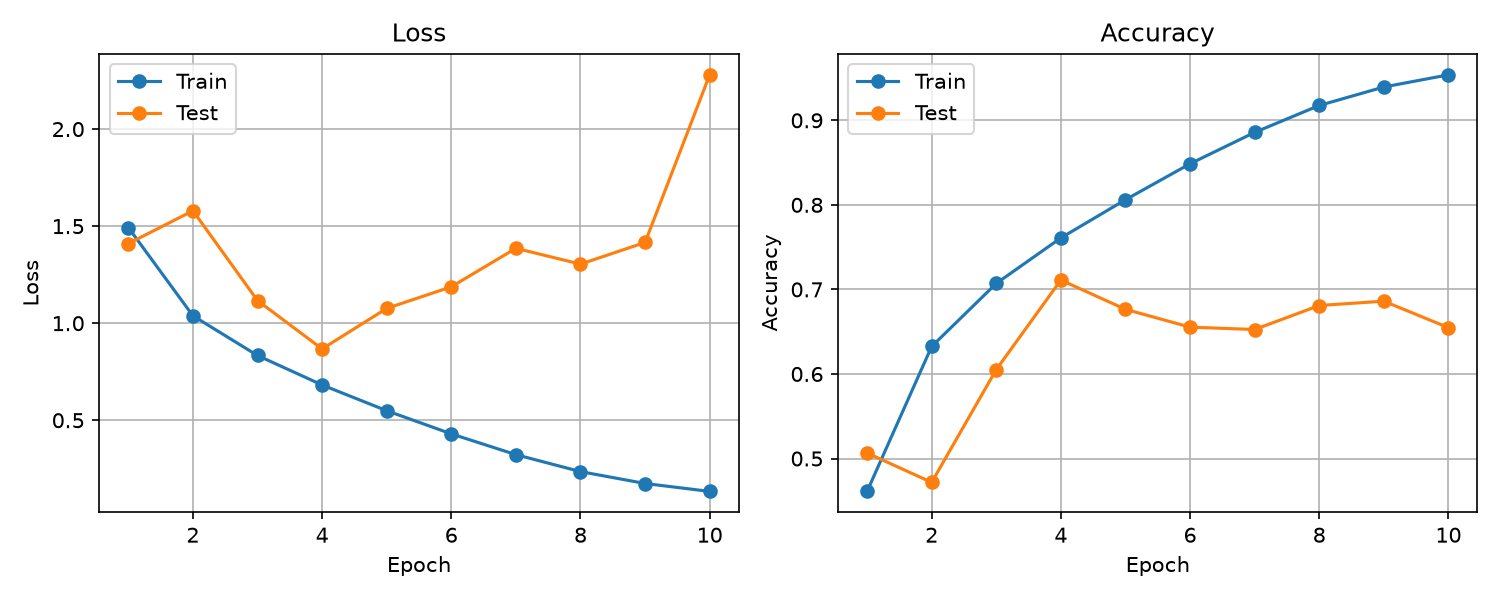
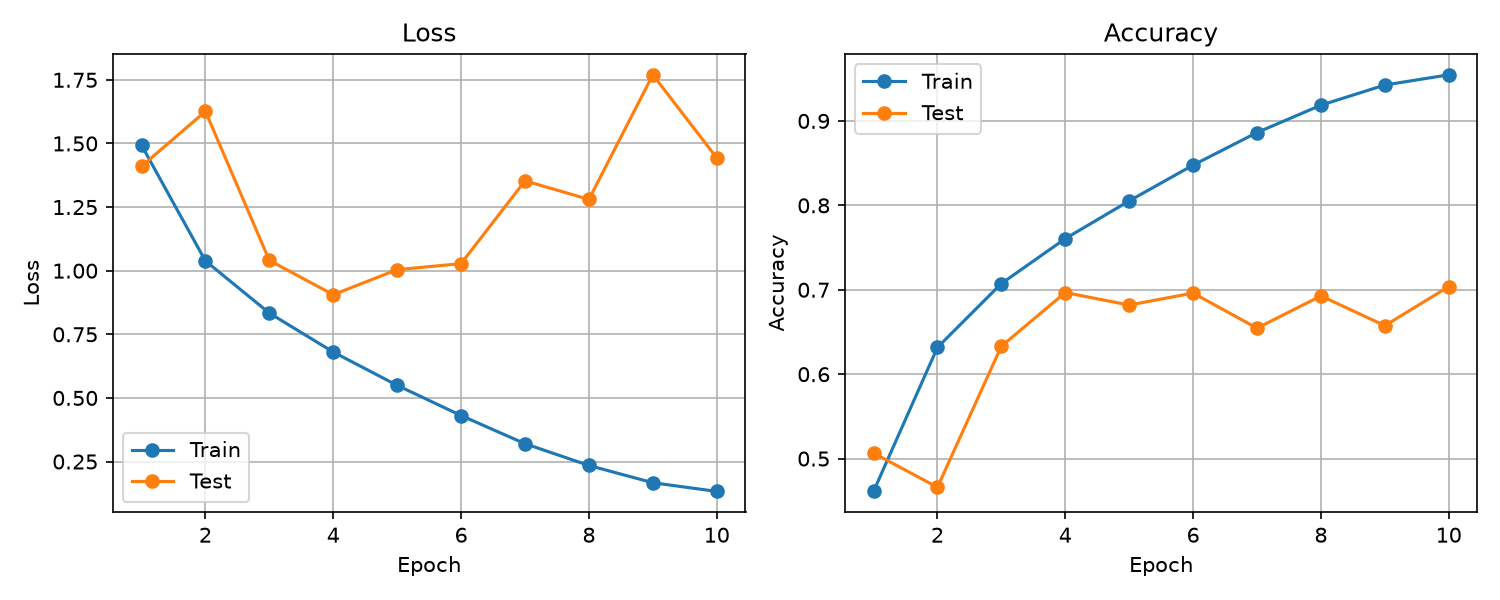
feat: add experiment tracking

diff --git a/train.py b/train.py
@@ -1,9 +1,10 @@
+import time
+from datetime import datetime
+from pathlib import Path
+
+import matplotlib.pyplot as plt
 import torch
 from torch import nn
-
-from utils.engine import evaluate, train_one_epoch
-from pathlib import Path
-import matplotlib.pyplot as plt
 
 from data.cifar10 import (
     create_dataloaders as create_cifar10_dataloaders,
@@ -15,6 +16,8 @@ from data.fashion_mnist import (
 )
 from models.mlp import MLP
 from models.simple_cnn import SimpleCNN
+from utils.engine import evaluate, train_one_epoch
+from utils.logger import log_experiment
 
 
 def main():
@@ -34,41 +37,44 @@ def main():
 
     # TODO 3：创建 Dataset 和 DataLoader
     # TODO 4：创建模型、损失函数和优化器
-    experiment_name="cifar10"
+    experiment_name = "cifar10"
+    batch_size = 64
+    learning_rate = 0.1
+    num_epochs = 10
 
-    if experiment_name=="fashion":
-        train_dataset,test_dataset=create_fashion_datasets()
+    if experiment_name == "fashion":
+        train_dataset, test_dataset = create_fashion_datasets()
 
-        train_dataloader,test_dataloader=create_fashion_dataloaders(
+        train_dataloader, test_dataloader = create_fashion_dataloaders(
             train_dataset,
             test_dataset,
-            batch_size=64
+            batch_size=batch_size,
         )
 
-        model=MLP().to(device)
-    elif experiment_name=="cifar10":
-        train_dataset,test_dataset=create_cifar10_datasets()
+        model = MLP().to(device)
+        model_name = "MLP"
+    elif experiment_name == "cifar10":
+        train_dataset, test_dataset = create_cifar10_datasets()
 
-        train_dataloader,test_dataloader=create_cifar10_dataloaders(
+        train_dataloader, test_dataloader = create_cifar10_dataloaders(
             train_dataset,
             test_dataset,
-            batch_size=64
+            batch_size=batch_size,
         )
 
-        model=SimpleCNN().to(device)
+        model = SimpleCNN().to(device)
+        model_name = "SimpleCNN"
     else:
         raise ValueError(f"不支持的实验：{experiment_name}")
 
-    loss_fn=nn.CrossEntropyLoss()
+    loss_fn = nn.CrossEntropyLoss()
 
-    optimizer=torch.optim.SGD(
+    optimizer = torch.optim.SGD(
         model.parameters(),
-        lr=0.1
+        lr=learning_rate,
     )
 
-    # TODO 5：训练 10 个 epoch，并在每轮后进行验证和打印指标
-    num_epochs=10
-
+    # TODO 5：训练若干个 epoch，并在每轮后进行验证和打印指标
     results_dir = (
         Path(__file__).resolve().parent
         / "results"
@@ -86,9 +92,14 @@ def main():
     test_accuracies = []
 
     best_test_accuracy = 0.0
+    best_test_loss = float("inf")  # 表示正无穷
+    best_epoch = 0
 
-    for epoch in range(1,num_epochs+1):
-        train_loss,train_accuracy=train_one_epoch(
+    # 记录训练开始时的计时器数值，方便后面计算整个训练过程花了多长时间
+    training_start_time = time.perf_counter()
+
+    for epoch in range(1, num_epochs + 1):
+        train_loss, train_accuracy = train_one_epoch(
             model,
             train_dataloader,
             loss_fn,
@@ -110,8 +121,10 @@ def main():
 
         if test_accuracy > best_test_accuracy:
             best_test_accuracy = test_accuracy
+            best_test_loss = test_loss
+            best_epoch = epoch
 
-            #把模型当前学到的参数保存到 best_model_path 指定的文件中
+            # state_dict() 会返回模型当前的参数字典
             torch.save(model.state_dict(), best_model_path)
 
         print(
@@ -121,6 +134,9 @@ def main():
             f"test loss: {test_loss:.4f} | "
             f"test acc: {test_accuracy:.2%}"
         )
+
+    # 完整训练耗时
+    training_seconds = time.perf_counter() - training_start_time
 
     #绘制曲线
     epochs = range(1, num_epochs + 1)
@@ -180,6 +196,37 @@ def main():
         f"test loss: {loaded_test_loss:.4f} | "
         f"test acc: {loaded_test_accuracy:.2%}"
     )
+
+    experiment_id = datetime.now().strftime("%Y%m%d_%H%M%S")
+
+    experiments_csv_path = (
+        Path(__file__).resolve().parent
+        / "results"
+        / "experiments.csv"
+    )
+
+    record = {
+        "experiment_id": experiment_id,
+        "dataset": experiment_name,
+        "model": model_name,
+        "epochs": num_epochs,
+        "batch_size": batch_size,
+        "optimizer": type(optimizer).__name__,
+        "learning_rate": learning_rate,
+        "device": str(device),
+        "duration_seconds": round(training_seconds, 2),
+        "best_epoch": best_epoch,
+        "best_test_loss": round(best_test_loss, 4),
+        "best_test_accuracy": round(best_test_accuracy, 4),
+    }
+
+    log_experiment(
+        experiments_csv_path,
+        record,
+    )
+
+    print("实验记录已追加到：", experiments_csv_path)
+
 
 if __name__ == "__main__":
     main()

diff --git a/utils/logger.py b/utils/logger.py
@@ -1,0 +1,45 @@
+import csv
+from pathlib import Path
+
+
+EXPERIMENT_FIELDS = [
+    "experiment_id",
+    "dataset",
+    "model",
+    "epochs",
+    "batch_size",
+    "optimizer",
+    "learning_rate",
+    "device",
+    "duration_seconds",
+    "best_epoch",
+    "best_test_loss",
+    "best_test_accuracy",
+]
+
+
+def log_experiment(csv_path, record):
+    csv_path = Path(csv_path)
+
+    # 如果父目录不存在，就自动创建
+    csv_path.parent.mkdir(parents=True, exist_ok=True)
+
+    # 写入前判断文件是否已经存在
+    file_exists = csv_path.exists()
+
+    with csv_path.open(
+        mode="a",  # 表示追加写入
+        newline="",
+        encoding="utf-8",
+    ) as file:
+        writer = csv.DictWriter(
+            file,
+            fieldnames=EXPERIMENT_FIELDS,
+        )
+
+        # CSV 第一次创建时写入表头，之后追加时不重复写
+        if not file_exists:
+            writer.writeheader()  # 会把 EXPERIMENT_FIELDS 写成 CSV 的第一行
+
+        # 将一条记录写入 CSV
+        writer.writerow(record)
